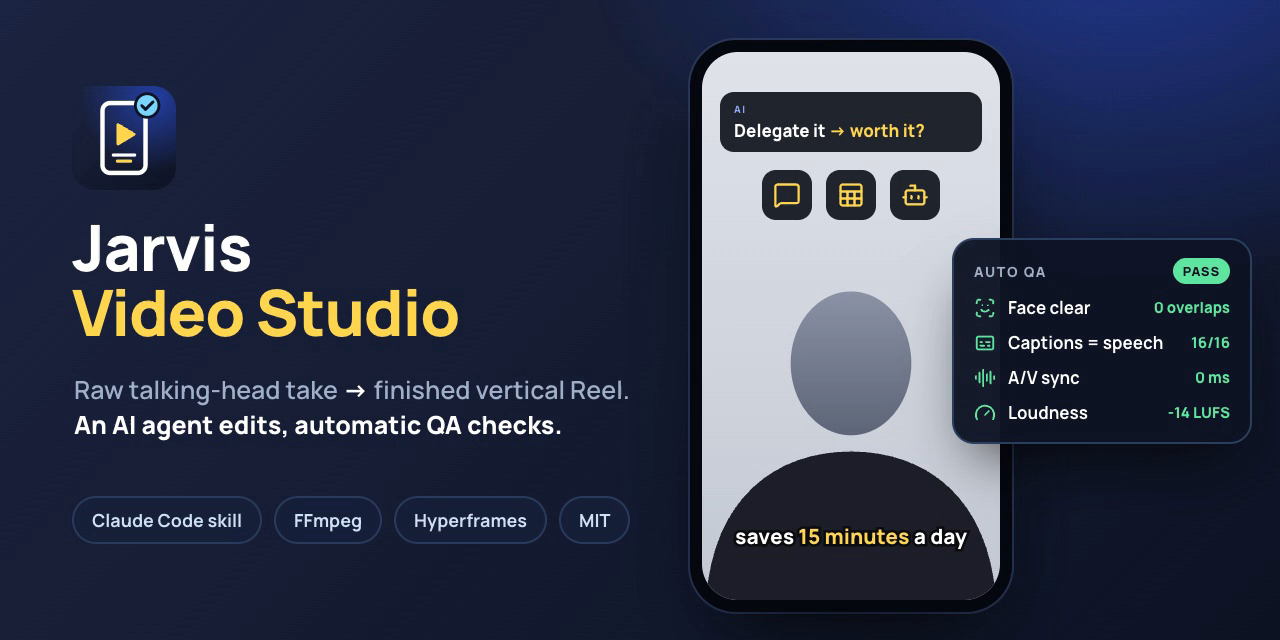
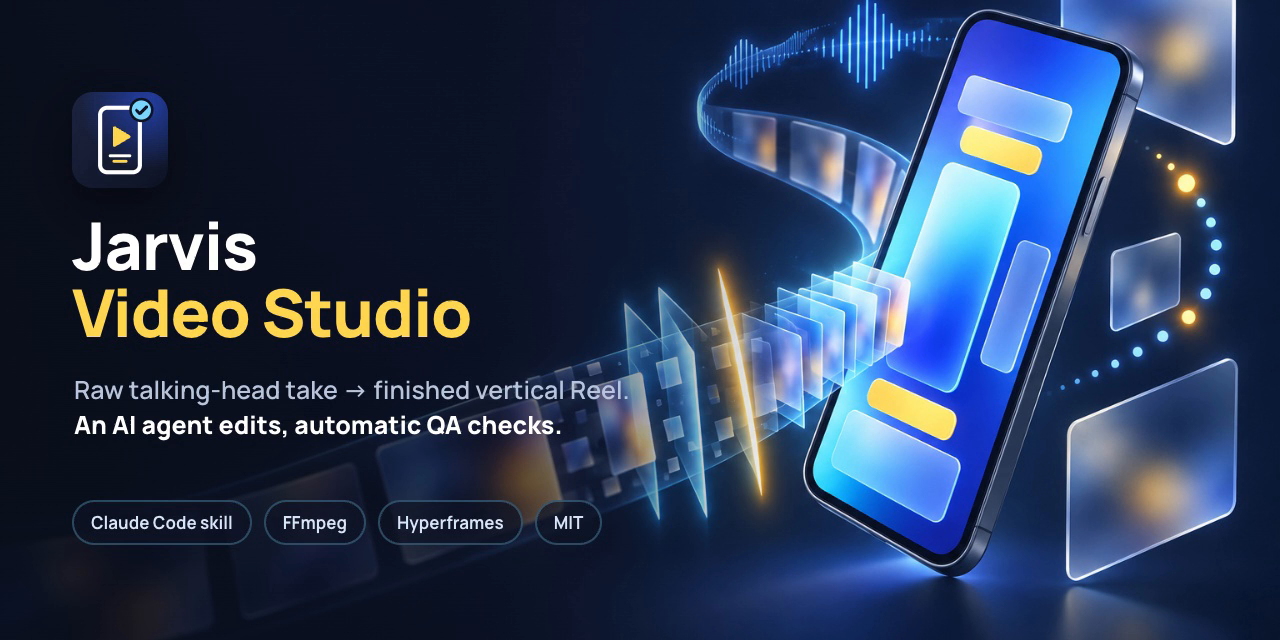
New README hero: Codex image_gen background + crisp title overlay
Text-free cinematic background (raw clip strip cut by light beams, flowing into a phone),
generated with Codex image_gen; logo, title and chips composited in docs/hero-src.
Prompt recorded in docs/hero-src/PROMPT.md.

diff --git a/docs/hero-src/index.html b/docs/hero-src/index.html
@@ -4,78 +4,38 @@
     <meta charset="UTF-8" />
     <meta name="viewport" content="width=1280, height=640" />
     <title>Jarvis Video Studio — hero</title>
-    <!-- README hero / GitHub social preview (1280x640). Render: npx hyperframes render --output ../hero.mp4, then take frame 1. -->
+    <!-- README hero / GitHub social preview (1280x640). Background: assets/hero_bg.png (text-free, generated with
+         Codex image_gen, prompt in docs/hero-src/PROMPT.md). Typography and logo are added here so they stay crisp.
+         Render: npx hyperframes render --output /tmp/hero.mp4 && ffmpeg -i /tmp/hero.mp4 -frames:v 1 ../hero.png -->
     <style>
       @font-face { font-family: "Manrope"; src: url("assets/Manrope.ttf") format("truetype"); font-weight: 200 800; }
-      :root { --bg: #0e1424; --bg2: #1b2440; --card: #16203a; --line: #2a3a5c; --ink: #fff; --muted: #9fb0c8;
-              --yellow: #ffd64d; --teal: #78d6ff; --green: #5ee6a0; --accent: #2f5bff; }
+      :root { --ink: #fff; --muted: #b7c6dc; --yellow: #ffd64d; --line: rgba(120, 214, 255, 0.28); }
       * { box-sizing: border-box; }
-      body { margin: 0; font-family: "Manrope", sans-serif; color: var(--ink); background: var(--bg); }
-      #root { position: relative; width: 1280px; height: 640px; overflow: hidden;
-              background: radial-gradient(900px 600px at 88% -10%, rgba(47, 91, 255, 0.45), transparent 60%),
-                          linear-gradient(135deg, var(--bg2), var(--bg)); }
+      body { margin: 0; font-family: "Manrope", sans-serif; color: var(--ink); background: #0e1424; }
+      #root { position: relative; width: 1280px; height: 640px; overflow: hidden; background: #0e1424; }
       .clip { position: absolute; inset: 0; }
-      /* left: brand */
-      #logo { position: absolute; left: 72px; top: 86px; width: 104px; height: 104px; }
-      #name { position: absolute; left: 72px; top: 214px; font-size: 64px; font-weight: 800; line-height: 1.02; letter-spacing: -0.02em; }
+      #bg { position: absolute; inset: 0; width: 1280px; height: 640px; object-fit: cover; object-position: center; }
+      /* soft left scrim so the title stays readable on any background */
+      #scrim { position: absolute; inset: 0; background: linear-gradient(90deg, rgba(10, 14, 26, 0.92) 0%, rgba(10, 14, 26, 0.75) 38%, rgba(10, 14, 26, 0) 62%); }
+      #logo { position: absolute; left: 72px; top: 92px; width: 96px; height: 96px; filter: drop-shadow(0 18px 30px rgba(0, 0, 0, 0.45)); }
+      #name { position: absolute; left: 72px; top: 212px; font-size: 66px; font-weight: 800; line-height: 1.02; letter-spacing: -0.02em; }
       #name span { color: var(--yellow); }
-      #tag { position: absolute; left: 74px; top: 372px; width: 600px; font-size: 25px; font-weight: 600; line-height: 1.4; color: var(--muted); }
+      #tag { position: absolute; left: 74px; top: 372px; width: 560px; font-size: 25px; font-weight: 600; line-height: 1.4; color: var(--muted); }
       #tag b { color: var(--ink); font-weight: 800; }
-      #chips { position: absolute; left: 72px; top: 496px; display: flex; gap: 12px; }
-      .chip { padding: 10px 18px; border-radius: 999px; border: 2px solid var(--line); background: rgba(22, 32, 58, 0.8);
-              font-size: 18px; font-weight: 700; color: #cfe0f5; }
-      /* right: phone */
-      #phone { position: absolute; left: 690px; top: 40px; width: 322px; height: 572px; border-radius: 46px; padding: 12px;
-               background: #05080f; box-shadow: 0 40px 90px -30px rgba(0, 0, 0, 0.8), 0 0 0 2px #2a3a5c; }
-      #screen { position: relative; width: 100%; height: 100%; border-radius: 36px; overflow: hidden;
-                background: linear-gradient(180deg, #dfe3ea 0%, #c3c9d3 100%); }
-      #person { position: absolute; left: 50%; bottom: 0; transform: translateX(-50%); width: 290px; height: 348px; }
-      #hook { position: absolute; left: 18px; right: 18px; top: 40px; padding: 10px 14px; border-radius: 14px; background: rgba(20, 24, 33, 0.94); }
-      #hook .eb { font-size: 10px; font-weight: 700; letter-spacing: 0.16em; color: #96afff; }
-      #hook .ln { font-size: 17px; font-weight: 800; margin-top: 3px; }
-      #hook .ln span { color: var(--yellow); }
-      #icons { position: absolute; top: 118px; left: 0; right: 0; display: flex; justify-content: center; gap: 14px; }
-      .ic { width: 50px; height: 50px; border-radius: 14px; background: rgba(20, 24, 33, 0.94); display: grid; place-items: center; }
-      .ic img { width: 28px; height: 28px; }
-      #cap { position: absolute; left: 0; right: 0; top: 470px; text-align: center; font-size: 21px; font-weight: 800;
-             -webkit-text-stroke: 5px #0c0c10; paint-order: stroke fill; }
-      #cap span { color: var(--yellow); }
-      /* QA card */
-      #qa { position: absolute; left: 952px; top: 238px; width: 300px; padding: 18px 20px; border-radius: 22px;
-            background: rgba(14, 20, 36, 0.96); border: 2px solid #28405e; box-shadow: 0 30px 60px -20px rgba(0, 0, 0, 0.7); }
-      #qa .hd { display: flex; justify-content: space-between; align-items: center; font-size: 14px; font-weight: 800; letter-spacing: 0.12em; color: var(--muted); }
-      #qa .pass { color: #0e1424; background: var(--green); padding: 4px 10px; border-radius: 999px; letter-spacing: 0.06em; font-size: 13px; }
-      .row { display: flex; align-items: center; gap: 12px; margin-top: 12px; font-size: 17px; font-weight: 700; }
-      .row img { width: 22px; height: 22px; }
-      .row em { margin-left: auto; font-style: normal; color: var(--green); font-weight: 800; font-size: 15px; }
+      #chips { position: absolute; left: 72px; top: 500px; display: flex; gap: 12px; }
+      .chip { padding: 9px 17px; border-radius: 999px; border: 2px solid var(--line); background: rgba(14, 20, 36, 0.72);
+              font-size: 17px; font-weight: 700; color: #d6e6fa; }
     </style>
   </head>
   <body>
     <div id="root" data-composition-id="main" data-start="0" data-width="1280" data-height="640" data-duration="1">
       <section id="hero" class="clip" data-start="0" data-duration="1" data-track-index="0">
+        <img id="bg" src="assets/hero_bg.png" alt="" />
+        <div id="scrim"></div>
         <img id="logo" src="assets/logo.svg" alt="" />
         <div id="name">Jarvis<br /><span>Video Studio</span></div>
-        <div id="tag">Raw talking-head take <b>→</b> finished vertical Reel.<br /><b>An AI agent edits, automatic QA checks.</b></div>
+        <div id="tag">Raw talking-head take → finished vertical Reel.<br /><b>An AI agent edits, automatic QA checks.</b></div>
         <div id="chips"><div class="chip">Claude Code skill</div><div class="chip">FFmpeg</div><div class="chip">Hyperframes</div><div class="chip">MIT</div></div>
-
-        <div id="phone"><div id="screen">
-          <svg id="person" viewBox="0 0 250 300" aria-hidden="true">
-            <defs><linearGradient id="sk" x1="0" y1="0" x2="0" y2="1"><stop offset="0" stop-color="#8a93a6"/><stop offset="1" stop-color="#5d6577"/></linearGradient></defs>
-            <ellipse cx="125" cy="96" rx="52" ry="62" fill="url(#sk)"/>
-            <path d="M0 300 C6 212 60 172 125 172 C190 172 244 212 250 300 Z" fill="#1c1f27"/>
-          </svg>
-          <div id="hook"><div class="eb">AI</div><div class="ln">Delegate it <span>→ worth it?</span></div></div>
-          <div id="icons"><div class="ic"><img src="assets/message-square.svg" alt="" /></div><div class="ic"><img src="assets/sheet.svg" alt="" /></div><div class="ic"><img src="assets/bot.svg" alt="" /></div></div>
-          <div id="cap">saves <span>15 minutes</span> a day</div>
-        </div></div>
-
-        <div id="qa">
-          <div class="hd">AUTO QA <span class="pass">PASS</span></div>
-          <div class="row"><img src="assets/qa-scan-face.svg" alt="" />Face clear<em>0 overlaps</em></div>
-          <div class="row"><img src="assets/qa-captions.svg" alt="" />Captions = speech<em>16/16</em></div>
-          <div class="row"><img src="assets/qa-audio-lines.svg" alt="" />A/V sync<em>0 ms</em></div>
-          <div class="row"><img src="assets/qa-gauge.svg" alt="" />Loudness<em>-14 LUFS</em></div>
-        </div>
       </section>
     </div>
     <script>

diff --git a/docs/hero-src/PROMPT.md b/docs/hero-src/PROMPT.md
@@ -1,0 +1,38 @@
+# Hero background prompt
+
+`assets/hero_bg.png` (1536x1024, text-free) was generated with Codex's built-in image_gen (variant B of two).
+The title, tagline, chips and logo are added on top in `index.html` so the typography stays crisp.
+
+## Brief given to Codex
+
+```text
+Use your built-in image_gen tool (load the .system/imagegen skill first) to create ONE original hero image for the README of an open-source tool that turns a raw talking-head video into a finished vertical social-media Reel, with an AI editor and automatic quality checks. Do not create or edit any other files except saving the final PNG(s).
+
+File name: hero_bg.png — landscape 3:2 (1536x1024).
+
+Concept / story: raw footage becomes a polished vertical video. On the RIGHT half: a sleek modern smartphone, floating at a slight 3/4 angle, its screen glowing with a vertical video frame (abstract soft gradient scene with a few blank rounded caption bars and small blank glass cards — pure shapes, nothing readable). From the lower left toward the phone flows a curved ribbon of raw film/timeline clips (plain translucent rectangular frames with soft color gradients) being precisely cut by thin beams of light; the pieces reassemble cleanly as they enter the phone. Around the phone: a few floating frosted-glass panels (blank), a smooth audio waveform ribbon, and small glowing dots suggesting precision and checking.
+
+Composition: the LEFT 45% of the image must be calm, dark, nearly empty negative space (smooth deep-navy gradient with a very subtle glow) — a title will be placed there later. Main subject weighted to the right third, strong readable silhouette, generous margins, nothing important within 60 px of the edges. Crop-safe to 2:1 (top and bottom 85 px may be cut).
+
+Style: premium high-end 3D product render, cinematic, soft volumetric light, glass and satin materials, shallow depth of field, elegant and modern, like a flagship product launch keynote visual.
+
+Palette: deep midnight navy (#0E1424 to #1B2440) background, electric blue (#2F5BFF) glow, icy cyan (#78D6FF) highlights, a few warm yellow (#FFD64D) accents on the caption bars and one light beam. High contrast, not muddy.
+
+Hard constraints: ABSOLUTELY NO text, letters, numbers, words, logos, brand marks, watermarks, app icons, readable UI, fake code, and NO people, faces or human silhouettes anywhere (including on the phone screen). The phone must be generic (no brand, no camera-bump branding).
+
+Make 2 variants with different compositions. Inspect each: if any contains letters/text-like marks, a face, or a brand logo, regenerate that one once. Save the chosen PNGs into the current directory as hero_bg_a.png and hero_bg_b.png. Finally print, for each: file path, the exact prompt you sent to image_gen, and the original generated_images path.
+```
+
+## Exact prompt Codex sent to image_gen
+
+```text
+Create ONE original README hero background image, exactly 1536x1024 pixels, landscape 3:2, for an open-source AI tool that transforms raw talking-head footage into a polished vertical social-media Reel using an AI editor and automatic quality checks. Depict the transformation without showing any person or face. Render it as a premium high-end 3D product-launch visual: cinematic, minimalist, elegant, soft volumetric illumination, frosted glass, satin metal, refined reflections, and shallow depth of field.
+
+COMPOSITION: the LEFT 45 percent must remain almost completely empty and title-safe: an uninterrupted deep-midnight-navy gradient from #0E1424 to #1B2440 with one extremely subtle atmospheric glow and no floating objects. On the RIGHT half, place a sleek generic unbranded smartphone in a distinctly dynamic diagonal composition: floating slightly lower than center, rotated clockwise in a three-quarter perspective, with its top receding into depth and its glowing screen facing toward the empty left side. Keep the entire phone at least 60 pixels from all canvas edges and give it a strong readable silhouette. On the screen show only an abstract vertical-video frame: a smooth electric-blue-to-icy-cyan gradient field, several large solid blank rounded bars with two small warm-yellow #FFD64D accents, and a few blank translucent glass tiles. Every element is a pure featureless geometric shape, not a readable interface.
+
+STORY AND MOTION: a thin ribbon of raw clip frames emerges from the lower-left direction but hugs the lower-middle corridor so the title area stays calm. It arcs upward BEHIND the phone in one broad C-shaped sweep, then curls forward and enters the lower side of the screen. The source frames are sparse translucent rectangles containing only blurred color gradients, without film perforations or thumbnails. Along the right-center transformation zone, several razor-thin icy-cyan light planes and exactly one warm-yellow beam slice the strip with geometric precision; fragments separate briefly, then snap into a clean aligned stack immediately before entering the phone. Add a single smooth audio-waveform ribbon orbiting behind the phone, three asymmetrically placed blank frosted-glass panels confined to the rightmost half, and a small ordered trail of glowing dots that implies automated checking and successful precision. Use depth, overlap, and controlled motion blur for a distinct circular-flow composition.
+
+PALETTE AND FINISH: deep navy #0E1424 to #1B2440 background, electric blue #2F5BFF, icy cyan #78D6FF, minimal warm yellow #FFD64D. Crisp high contrast with localized glow, rich blacks, clean material separation, never murky. Flagship keynote render quality with polished glass and satin surfaces, generous margins, no clutter. Make it crop-safe to 2:1: keep all essential content between y=85 pixels and y=939 pixels, with no important element in the top or bottom 85 pixels. No border or poster frame.
+
+ABSOLUTE HARD CONSTRAINTS: NO text, NO letters, NO numbers, NO words, NO logos, NO brand marks, NO watermarks, NO signatures, NO app icons, NO symbols, NO fake code, NO readable captions, NO readable UI, NO status bar, NO clock, NO battery or signal marks, NO camera interface, NO text-like microdetails, and NO typographic shapes. NO people, NO faces, NO eyes, NO heads, NO bodies, NO hands, and NO human silhouettes anywhere, including reflections and the phone screen. The phone must be fully generic and brandless, with no logo, no recognizable camera-bump branding, no notch, and no dynamic-island shape. Avoid any shape that could be mistaken for a character or logo.
+```

diff --git a/THIRD_PARTY_NOTICES.md b/THIRD_PARTY_NOTICES.md
@@ -2,7 +2,7 @@
 
 Bundled:
 - **Manrope** font (`assets/fonts/Manrope.ttf` and copies in `examples/motion-template/assets/`, `docs/hero-src/assets/`) — SIL Open Font License 1.1, see `OFL-Manrope.txt`.
-- **Lucide icons** (`examples/motion-template/assets/*.svg`, `docs/hero-src/assets/*.svg`) — ISC License, © Lucide Contributors, https://github.com/lucide-icons/lucide
+- **Lucide icons** (`examples/motion-template/assets/*.svg`) — ISC License, © Lucide Contributors, https://github.com/lucide-icons/lucide
 
 Used at runtime, not bundled (their own terms apply):
 - FFmpeg (LGPL/GPL depending on build), whisper.cpp + models (MIT), Pillow (MIT-CMU).
@@ -11,4 +11,4 @@ Used at runtime, not bundled (their own terms apply):
 - Simple Icons (CC0 icon data; the marks remain trademarks of their owners), Brandfetch API (its terms), Pexels API and media (Pexels License).
 - Music and brand logos are never bundled; you supply files you hold the rights to.
 
-Project logo and hero image (`assets/brand/`, `docs/hero.png`, `docs/hero-src/`) are original work under this repository's MIT license.
+Project logo (`assets/brand/`) and hero composition (`docs/hero-src/index.html`, `docs/hero.png`) are original work under this repository's MIT license. The hero background `docs/hero-src/assets/hero_bg.png` was generated with OpenAI image generation via Codex for this project (prompt: `docs/hero-src/PROMPT.md`).
